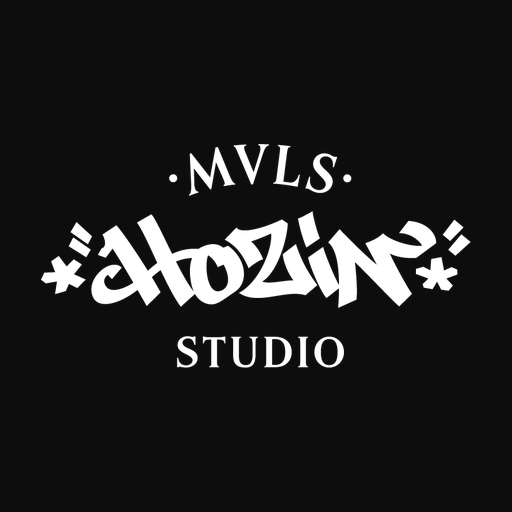
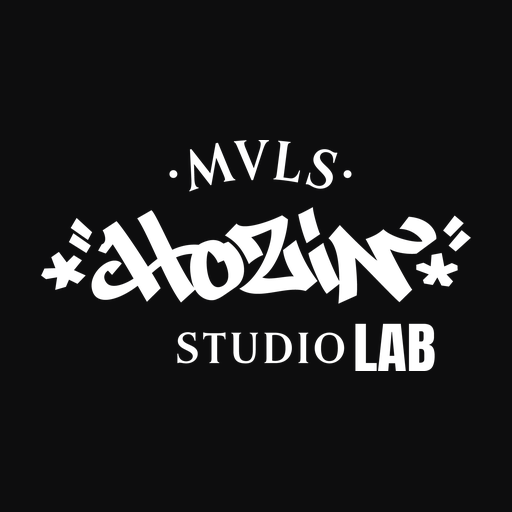
<update> : 로고 추가, 신청방법 위치 변경 	- 날짜 : 2026.11.22 	- 내용 : 		- 로고 추가, 신청방법 위치 변경

Changed region(s): [[0.0625, 0.4062, 0.9375, 0.5938], [0.3438, 0.625, 0.875, 0.75], [0.3125, 0.25, 0.6875, 0.375]]

diff --git a/index.html b/index.html
@@ -27,8 +27,7 @@
   <header class="topbar">
     <div class="wrap topbar__in">
       <a class="brand" href="#top" aria-label="MVLS HOZIN STUDIO LAB 홈">
-        <img src="assets/img/logo-white.png" alt="MVLS HOZIN STUDIO" width="687" height="358" />
-        <span class="brand__lab">LAB</span>
+        <img src="assets/img/logo-white.png" alt="MVLS HOZIN STUDIO LAB" width="900" height="484" />
       </a>
       <div class="topbar__actions">
         <button type="button" class="hdr-link" data-open-lookup data-i18n="nav.lookup">신청내역</button>
@@ -47,7 +46,7 @@
       <div class="hero__bg" id="heroBg" aria-hidden="true"></div>
       <div class="wrap hero__in">
         <div class="hero__copy">
-          <h1 class="hero__logo"><img src="assets/img/logo-white.png" alt="MVLS HOZIN STUDIO LAB" width="687" height="358" /><span class="hero__lab">LAB</span></h1>
+          <h1 class="hero__logo"><img src="assets/img/logo-white.png" alt="MVLS HOZIN STUDIO LAB" width="900" height="484" /></h1>
           <p class="hero__lead" data-i18n="hero.lead">마블러스호진스튜디오 랩의 스트릿 댄스 프로그램과 워크숍을 신청하세요.</p>
           <ul class="hero__facts">
             <li><b>MONDAY — FRIDAY</b><span>18:20 – 22:40</span></li>
@@ -93,6 +92,24 @@
       <div class="wrap">
         <h2 class="notice__title" data-i18n="notice.title">휴강 · 대강 안내</h2>
         <ul class="notice__list" id="noticeList"></ul>
+      </div>
+    </section>
+
+    <!-- HOW TO -->
+    <section class="section" id="howto">
+      <div class="wrap">
+        <div class="section__head">
+          <div>
+            <p class="eyebrow eyebrow--muted">HOW TO APPLY</p>
+            <h2 class="section__title" data-i18n="how.title">신청 방법</h2>
+          </div>
+        </div>
+        <ol class="steps">
+          <li><span class="steps__no">01</span><b data-i18n="how.s1">프로그램 · 권종 선택</b><p data-i18n="how.s1d">1회권 또는 월 등록, 참여 날짜를 고릅니다.</p></li>
+          <li><span class="steps__no">02</span><b data-i18n="how.s2">신청자 정보 입력</b><p data-i18n="how.s2d">이름과 연락처만 있으면 됩니다. 회원가입은 필요 없어요.</p></li>
+          <li><span class="steps__no">03</span><b data-i18n="how.s3">수납 안내 받기</b><p data-i18n="how.s3d">참여비와 송금처를 입력하신 연락처로 안내드립니다.</p></li>
+          <li><span class="steps__no">04</span><b data-i18n="how.s4">신청 완료</b><p data-i18n="how.s4d">수납이 확인되면 신청이 확정됩니다.</p></li>
+        </ol>
       </div>
     </section>
 
@@ -157,24 +174,6 @@
           <p class="section__hint" data-i18n="ws.hint">워크숍을 누르면 신청할 수 있어요</p>
         </div>
         <div class="wsgrid" id="workshopList" aria-live="polite"></div>
-      </div>
-    </section>
-
-    <!-- HOW TO -->
-    <section class="section" id="howto">
-      <div class="wrap">
-        <div class="section__head">
-          <div>
-            <p class="eyebrow eyebrow--muted">HOW TO APPLY</p>
-            <h2 class="section__title" data-i18n="how.title">신청 방법</h2>
-          </div>
-        </div>
-        <ol class="steps">
-          <li><span class="steps__no">01</span><b data-i18n="how.s1">프로그램 · 권종 선택</b><p data-i18n="how.s1d">1회권 또는 월 등록, 참여 날짜를 고릅니다.</p></li>
-          <li><span class="steps__no">02</span><b data-i18n="how.s2">신청자 정보 입력</b><p data-i18n="how.s2d">이름과 연락처만 있으면 됩니다. 회원가입은 필요 없어요.</p></li>
-          <li><span class="steps__no">03</span><b data-i18n="how.s3">수납 안내 받기</b><p data-i18n="how.s3d">참여비와 송금처를 입력하신 연락처로 안내드립니다.</p></li>
-          <li><span class="steps__no">04</span><b data-i18n="how.s4">신청 완료</b><p data-i18n="how.s4d">수납이 확인되면 신청이 확정됩니다.</p></li>
-        </ol>
       </div>
     </section>
 

diff --git a/assets/style.css b/assets/style.css
@@ -60,7 +60,7 @@ button, input, select, textarea { font: inherit; color: inherit; }
 .topbar { position: sticky; top: 0; z-index: 20; background: rgba(13,13,14,.86); backdrop-filter: blur(10px); -webkit-backdrop-filter: blur(10px); border-bottom: 1px solid var(--line); }
 .topbar__in { display: flex; align-items: center; justify-content: space-between; height: 64px; }
 .brand { display: flex; align-items: center; text-decoration: none; }
-.brand img { display: block; height: 34px; width: auto; }
+.brand img { display: block; height: 40px; width: auto; } /* LAB 로고에 'STUDIO LAB' 글자가 있어 조금 크게 */
 .topbar__actions { display: flex; align-items: center; gap: 10px; }
 .lang { display: flex; border: 1px solid var(--line-2); border-radius: 999px; padding: 3px; }
 .lang button { border: 0; background: none; border-radius: 999px; padding: 4px 10px; font-size: 12px; font-weight: 700; color: var(--muted); cursor: pointer; }
@@ -338,11 +338,10 @@ input[aria-invalid="true"] { border-color: var(--danger); }
 
 /* ───── LAB ───── */
 .brand { gap: 8px; }
-.brand__lab { font-family: var(--display); font-size: 15px; letter-spacing: .12em; padding: 2px 8px 1px; border-radius: 6px; background: var(--accent); color: var(--accent-ink); line-height: 1.3; }
 .hero__logo { display: flex; align-items: flex-end; gap: 14px; flex-wrap: wrap; }
-.hero__lab { font-family: var(--display); font-size: clamp(40px, 7vw, 72px); line-height: .9; letter-spacing: .06em; color: var(--accent); }
 
 /* 신청서 바로가기 */
+#howto + #forms { padding-top: 0; } /* 신청 방법 바로 아래: 같은 배경이라 위 여백 겹침 제거 */
 .formcards { display: grid; grid-template-columns: repeat(3, 1fr); gap: 12px; }
 .formcard { display: flex; flex-direction: column; gap: 6px; text-align: left; padding: 20px; border: 1px solid var(--line); border-radius: var(--radius); background: var(--surface); cursor: pointer; transition: border-color .15s, transform .15s; min-height: 140px; }
 .formcard:hover { border-color: var(--accent); transform: translateY(-2px); }
@@ -386,7 +385,6 @@ input[aria-invalid="true"] { border-color: var(--danger); }
 @media (max-width: 600px) {
   .formcard { min-height: 0; padding: 16px; }
   .formcard b { font-size: 15px; }
-  .brand__lab { font-size: 13px; }
 }
 
 /* toast */
@@ -419,7 +417,7 @@ input[aria-invalid="true"] { border-color: var(--danger); }
   .cls__time b { font-size: 20px; }
   .steps { grid-template-columns: 1fr; }
   .notice .wrap { flex-direction: column; gap: 8px; }
-  .brand img { height: 30px; }
+  .brand img { height: 36px; }
   .hdr-link { display: none; }
   .modal { padding: 0; align-items: flex-end; }
   .modal__panel { max-width: none; border-radius: 18px 18px 0 0; max-height: 94vh; max-height: 94dvh; border-bottom: 0; }
